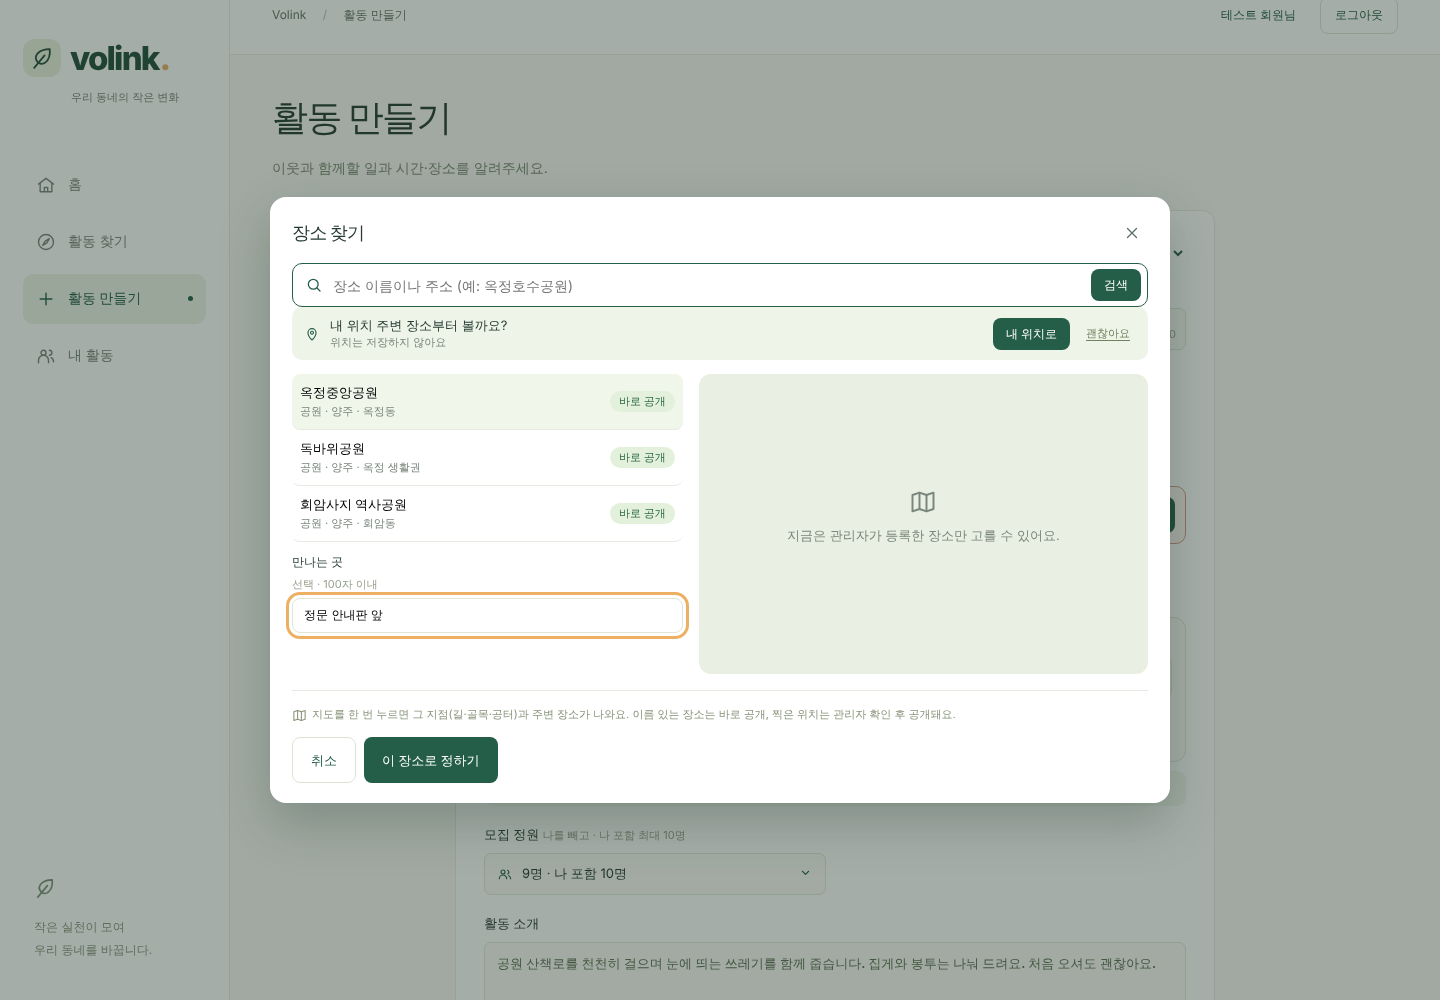
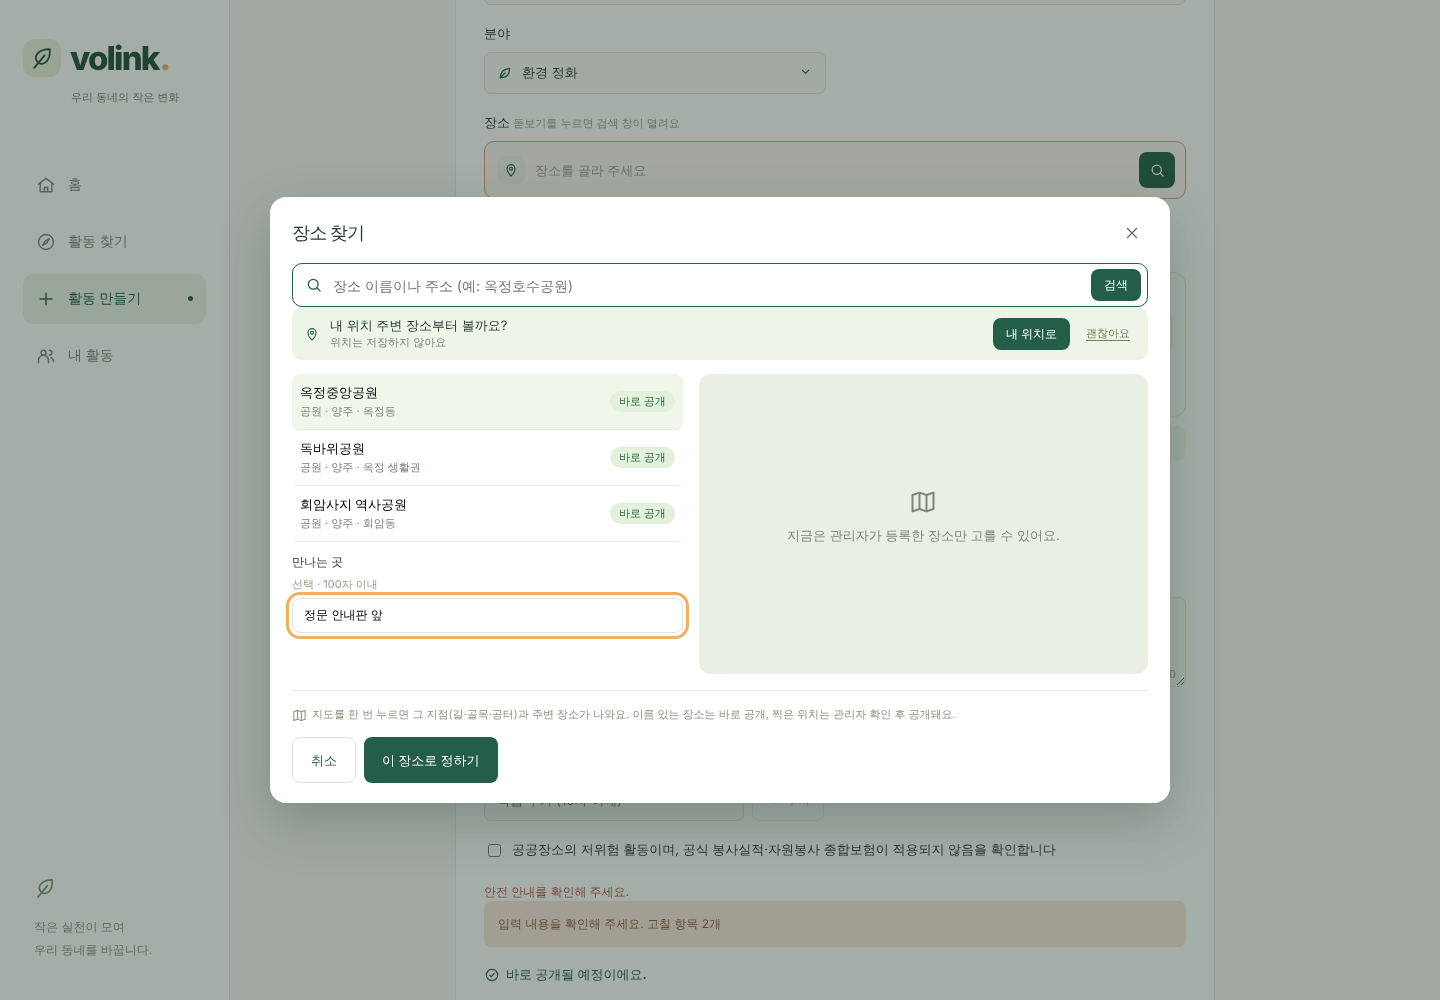
4주차 보완 9: 카페가 술집으로 잡히던 오류 수정, 장소 누르면 지도 이동 (#17)
* 4주차 보완 9: 지점 이름 '양주점'이 술집으로 잡혀 카페를 고를 수 없던 오류 수정

장소 이름 검사 단어를 분류 검사와 분리하고 이름에서는 '주점' 단독을 쓰지 않는다.
카카오 분류가 술집인 곳은 그대로 막힌다.

Claude-Session: https://claude.ai/code/session_01YWAKuVvBnZxxg25mHmgnaP

* 4주차 보완 9: 장소 찾기 목록에서 장소를 누르면 지도가 그 장소로 이동

지도 준비 전에 받은 위치도 준비 후 반영하고, 고른 장소는 가까이 보여 주며 좁은 화면에서는 지도를 보이게 스크롤한다.

Claude-Session: https://claude.ai/code/session_01YWAKuVvBnZxxg25mHmgnaP

---------

diff --git a/frontend/src/placePicker.tsx b/frontend/src/placePicker.tsx
@@ -212,9 +212,17 @@ function PinMap({ centre, chosen, items, hovered, onChoose, onNearby }: {
     }).catch(() => setFailed(true))
     return () => { cancelled = true }
   }, [])
+  // Move to the chosen place (or the latest search). Also runs once the map is ready: a position found before Kakao finished
+  // loading used to leave the map at the default spot. A picked place is shown close up and brought into view on narrow screens.
   useEffect(() => {
-    if (map.current && centre && window.kakao) map.current.panTo(new window.kakao.maps.LatLng(centre.lat, centre.lng))
-  }, [centre])
+    if (!ready || !map.current || !centre || !window.kakao) return
+    const target = new window.kakao.maps.LatLng(centre.lat, centre.lng)
+    if (chosen && chosen.latitude != null && Number(chosen.latitude) === centre.lat && Number(chosen.longitude) === centre.lng) {
+      if (map.current.getLevel() > 3) map.current.setLevel(3)
+      map.current.setCenter(target)
+      box.current?.scrollIntoView({ block: 'nearest', behavior: 'smooth' })
+    } else map.current.panTo(target)
+  }, [centre, ready])
   useEffect(() => {
     const kakao = window.kakao
     if (!ready || !map.current || !kakao?.maps) return

diff --git a/backend/src/main/java/com/volink/place/PlaceClassifier.java b/backend/src/main/java/com/volink/place/PlaceClassifier.java
@@ -15,27 +15,29 @@ public final class PlaceClassifier {
 
     public record Result(Level level, String label) {}
 
-    private record Rule(Level level, String label, List<String> words, boolean nameToo) {}
+    /** words: matched in Kakao's category; nameWords: also matched in the place name (only words that cannot be part of an ordinary name). */
+    private record Rule(Level level, String label, List<String> words, List<String> nameWords) {}
 
     private static final List<Rule> RULES = List.of(
-            new Rule(Level.BLOCKED, "주유소·충전소", List.of("주유소", "충전소", "lpg"), true),
-            new Rule(Level.BLOCKED, "술집·유흥시설", List.of("술집", "주점", "호프", "유흥", "나이트", "단란"), true),
-            new Rule(Level.BLOCKED, "숙박업소", List.of("모텔", "여관"), true),
-            new Rule(Level.BLOCKED, "위험 시설", List.of("사격", "카지노", "성인용품", "군부대", "교도소", "공사현장"), true),
-            new Rule(Level.OPEN, "요양·복지시설", List.of("요양", "노인복지", "복지관", "복지시설", "장애인", "아동센터", "보육"), true),
-            new Rule(Level.OPEN, "병원·약국", List.of("병원", "의원", "의료", "약국", "보건"), true),
-            new Rule(Level.OPEN, "반려동물 시설", List.of("반려", "애견", "애완", "동물"), true),
-            new Rule(Level.OPEN, "학교·어린이집", List.of("학교", "어린이집", "유치원", "학원"), true),
-            new Rule(Level.OPEN, "종교시설", List.of("종교", "교회", "성당", "사찰"), false),
-            new Rule(Level.OPEN, "주거·숙박시설", List.of("아파트", "주거", "숙박", "호텔", "펜션", "캠핑"), false),
-            new Rule(Level.OPEN, "물가·산업시설", List.of("수영", "물놀이", "해수욕", "계곡", "저수지", "공장", "산업", "주차장"), false),
-            new Rule(Level.OPEN, "공원", List.of("공원", "광장", "산책", "둘레길", "수목원", "하천", "천변"), false),
-            new Rule(Level.OPEN, "도서관·문화시설", List.of("도서관", "문화", "박물관", "미술관", "전시"), false),
-            new Rule(Level.OPEN, "공공기관", List.of("공공기관", "행정", "주민센터", "복합청사", "시청", "구청", "자원봉사센터"), false),
-            new Rule(Level.OPEN, "관광명소", List.of("관광", "명소", "여행"), false),
-            new Rule(Level.OPEN, "카페", List.of("카페", "제과"), false),
-            new Rule(Level.OPEN, "음식점", List.of("음식점"), false),
-            new Rule(Level.OPEN, "체육시설", List.of("운동장", "체육", "스포츠"), false));
+            new Rule(Level.BLOCKED, "주유소·충전소", List.of("주유소", "충전소", "lpg"), List.of("주유소", "충전소", "lpg")),
+            // In names "주점" alone is not used: branch names like 양주점·광주점·전주점 contain it (a café "코베티 양주점" was refused).
+            new Rule(Level.BLOCKED, "술집·유흥시설", List.of("술집", "주점", "호프", "유흥", "나이트", "단란"), List.of("술집", "호프", "유흥", "나이트클럽", "단란주점", "룸살롱")),
+            new Rule(Level.BLOCKED, "숙박업소", List.of("모텔", "여관"), List.of("모텔", "여관")),
+            new Rule(Level.BLOCKED, "위험 시설", List.of("사격", "카지노", "성인용품", "군부대", "교도소", "공사현장"), List.of("사격", "카지노", "성인용품", "군부대", "교도소", "공사현장")),
+            new Rule(Level.OPEN, "요양·복지시설", List.of("요양", "노인복지", "복지관", "복지시설", "장애인", "아동센터", "보육"), List.of("요양", "노인복지", "복지관", "복지시설", "장애인", "아동센터", "보육")),
+            new Rule(Level.OPEN, "병원·약국", List.of("병원", "의원", "의료", "약국", "보건"), List.of("병원", "의원", "의료", "약국", "보건")),
+            new Rule(Level.OPEN, "반려동물 시설", List.of("반려", "애견", "애완", "동물"), List.of("반려", "애견", "애완", "동물")),
+            new Rule(Level.OPEN, "학교·어린이집", List.of("학교", "어린이집", "유치원", "학원"), List.of("학교", "어린이집", "유치원", "학원")),
+            new Rule(Level.OPEN, "종교시설", List.of("종교", "교회", "성당", "사찰"), List.of()),
+            new Rule(Level.OPEN, "주거·숙박시설", List.of("아파트", "주거", "숙박", "호텔", "펜션", "캠핑"), List.of()),
+            new Rule(Level.OPEN, "물가·산업시설", List.of("수영", "물놀이", "해수욕", "계곡", "저수지", "공장", "산업", "주차장"), List.of()),
+            new Rule(Level.OPEN, "공원", List.of("공원", "광장", "산책", "둘레길", "수목원", "하천", "천변"), List.of()),
+            new Rule(Level.OPEN, "도서관·문화시설", List.of("도서관", "문화", "박물관", "미술관", "전시"), List.of()),
+            new Rule(Level.OPEN, "공공기관", List.of("공공기관", "행정", "주민센터", "복합청사", "시청", "구청", "자원봉사센터"), List.of()),
+            new Rule(Level.OPEN, "관광명소", List.of("관광", "명소", "여행"), List.of()),
+            new Rule(Level.OPEN, "카페", List.of("카페", "제과"), List.of()),
+            new Rule(Level.OPEN, "음식점", List.of("음식점"), List.of()),
+            new Rule(Level.OPEN, "체육시설", List.of("운동장", "체육", "스포츠"), List.of()));
 
     /** Label of a spot picked on the map (no Kakao place there). */
     public static final String UNNAMED = "이름 없는 장소(길·골목·공터)";
@@ -54,9 +56,12 @@ public final class PlaceClassifier {
         String place = (name == null ? "" : name).toLowerCase(Locale.ROOT);
         String group = categoryGroup == null ? "" : categoryGroup;
         if (group.equals("OL7")) return new Result(Level.BLOCKED, "주유소·충전소");
-        for (Rule rule : RULES)
+        for (Rule rule : RULES) {
             for (String word : rule.words())
-                if (category.contains(word) || rule.nameToo() && place.contains(word.trim())) return new Result(rule.level(), rule.label());
+                if (category.contains(word)) return new Result(rule.level(), rule.label());
+            for (String word : rule.nameWords())
+                if (place.contains(word)) return new Result(rule.level(), rule.label());
+        }
         return switch (group) {
             case "HP8", "PM9" -> new Result(Level.OPEN, "병원·약국");
             case "SC4", "PS3", "AC5" -> new Result(Level.OPEN, "학교·어린이집");

diff --git a/backend/src/test/java/com/volink/place/PlaceClassifierTest.java b/backend/src/test/java/com/volink/place/PlaceClassifierTest.java
@@ -21,6 +21,10 @@ class PlaceClassifierTest {
             "교육,학문 > 학교 > 초등학교|SC4|옥정초등학교|OPEN|학교·어린이집",
             "교통,수송 > 자동차 > 주유,가스 > 주유소|OL7|SK주유소|BLOCKED|주유소·충전소",
             "음식점 > 술집 > 호프,요리주점|FD6|동네호프|BLOCKED|술집·유흥시설",
+            // Branch names ending in 양주점·광주점 are not bars; a bar named so still has a 술집 category.
+            "음식점 > 카페 > 커피전문점|CE7|코베티 양주점|OPEN|카페",
+            "음식점 > 한식|FD6|광주점 김밥|OPEN|음식점",
+            "가정,생활 > 생활용품||행복 단란주점|BLOCKED|술집·유흥시설",
             "가정,생활 > 생활용품|| 생활용품점|OPEN|생활용품",
             "교통,수송 > 지하철,전철 > 수도권1호선|SW8|양주역|OPEN|지하철,전철",
             "가정,생활 > 편의점|CS2|GS25 옥정점|OPEN|편의점",

diff --git a/README.md b/README.md
@@ -447,6 +447,13 @@ git push origin main
 - 활동 찾기 지도: 한 번 누르면 그곳에 빨간 점이 찍히고 ‘이 위치에서 다시 찾기’ 버튼이 뜸 → 누르면 그 점을 기준(‘찍은 위치 기준 3km’)으로 우리 활동·1365를 다시 찾음. 끌기만 하면 예전처럼 ‘이 지역에서 다시 찾기’(지도 가운데 기준). 두 번 누르기는 확대 그대로.
 - `./mvnw clean test` 64/64(역·편의점 바로 공개, 찍은 위치 REVIEW·서명 위조 거부 추가) · Playwright 19/19. 카카오 지도 클릭·주소는 이 환경에서 확인하지 못해 배포 서버에서 확인 필요.
 
+### 4주차 보완 9 · 2026-10-26 (카페가 술집으로 잡히던 오류)
+
+- 배포 화면에서 ‘코베티 양주점’(카페)이 ‘술집·유흥시설’로 고를 수 없게 나옴. 원인: 장소 **이름**에서도 ‘주점’을 찾아서 지점 이름 ‘양주점’(광주점·전주점·청주점도 같음)이 걸림.
+- 수정: 이름에서 찾는 단어를 따로 둠(술집·호프·유흥·나이트클럽·단란주점·룸살롱). 카카오 분류가 ‘술집 > 요리주점’인 곳은 그대로 막힘.
+- 장소 찾기: 목록에서 장소를 누르면 지도가 그 장소로 바로 옮겨가 가까이(레벨 3) 보여주고, 좁은 화면에서는 지도를 화면 안으로 스크롤. 위치를 지도 준비 전에 받으면 기본 위치에 머물던 문제도 고침(지도 준비 후 다시 이동).
+- `./mvnw clean test` 67/67(코베티 양주점=카페, 광주점 김밥=음식점, 이름에 단란주점=고를 수 없음 추가) · Playwright 19/19. 카카오 지도 이동은 배포 서버에서 확인 필요.
+
 ### 5~8주차 · 아직 작업하지 않음
 
 해당 주차 작업 후 아래 형식으로 새 항목을 추가합니다. 미작성 상태를 완료로 바꾸지 마세요.

diff --git a/docs/rules.md b/docs/rules.md
@@ -34,6 +34,8 @@ Kakao 장소의 카테고리(위험 단어는 장소 이름도)로 정합니다.
 | 검토 후 공개 | 지도에서 직접 찍은 지점(길·골목·공터 등 이름 있는 장소가 아닌 곳, `GET /api/places/point`) | 위험도 REVIEW(관리자 승인 전 비공개) |
 | 바로 공개 | 카카오가 종류를 붙인 모든 장소(공원·도서관·공공기관·카페·음식점·체육시설·요양·병원·학교·종교·주거·역·편의점·마트·은행 등) | 다른 검사(위험 단어·일몰·분야)만 적용 |
 
+**2026-10-26 오류 수정:** 장소 이름에서는 ‘주점’ 단독으로 찾지 않습니다(지점명 양주점·광주점 등). 이름 검사 단어는 술집·호프·유흥·나이트클럽·단란주점·룸살롱이며, 분류(‘술집 > 요리주점’)는 그대로 막습니다.
+
 **2026-10-26 사용자 결정:** 이름 있는 장소는 고를 수 없음 목록만 빼고 모두 바로 공개, 지도에서 직접 찍은 길·골목·공터만 검토. 이전(10-25) 결정: 이름이 있는 장소는 대부분 사람이 많은 공공장소이고, 위험한 활동은 활동 이름·소개·분야(예: 어르신·돌봄 → 검토, 사다리 → 등록 불가)에서 따로 걸러지므로 장소 검토는 ‘모르는 장소’만 남겼습니다. 장소 이름표(요양·복지시설 등)는 그대로 보여줍니다.
 
 관리자 등록 장소 3곳은 공원(바로 공개)입니다. 분류는 위험 가능성을 고르는 보조 수단이며 현장이 안전하다는 보증이 아닙니다.
